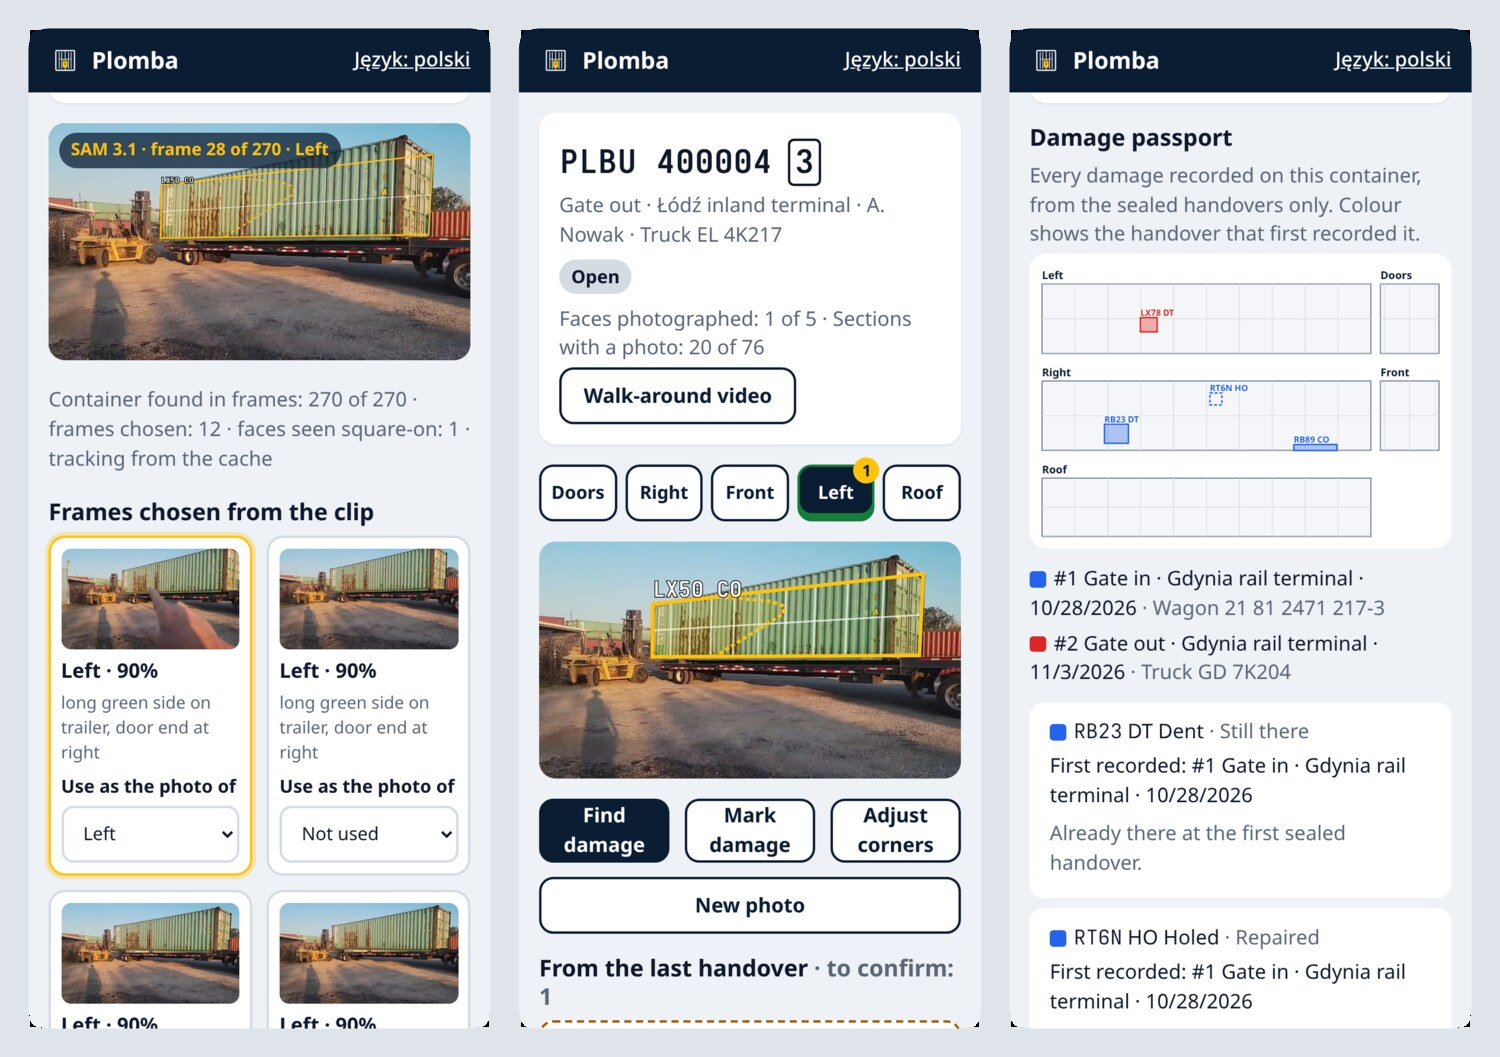
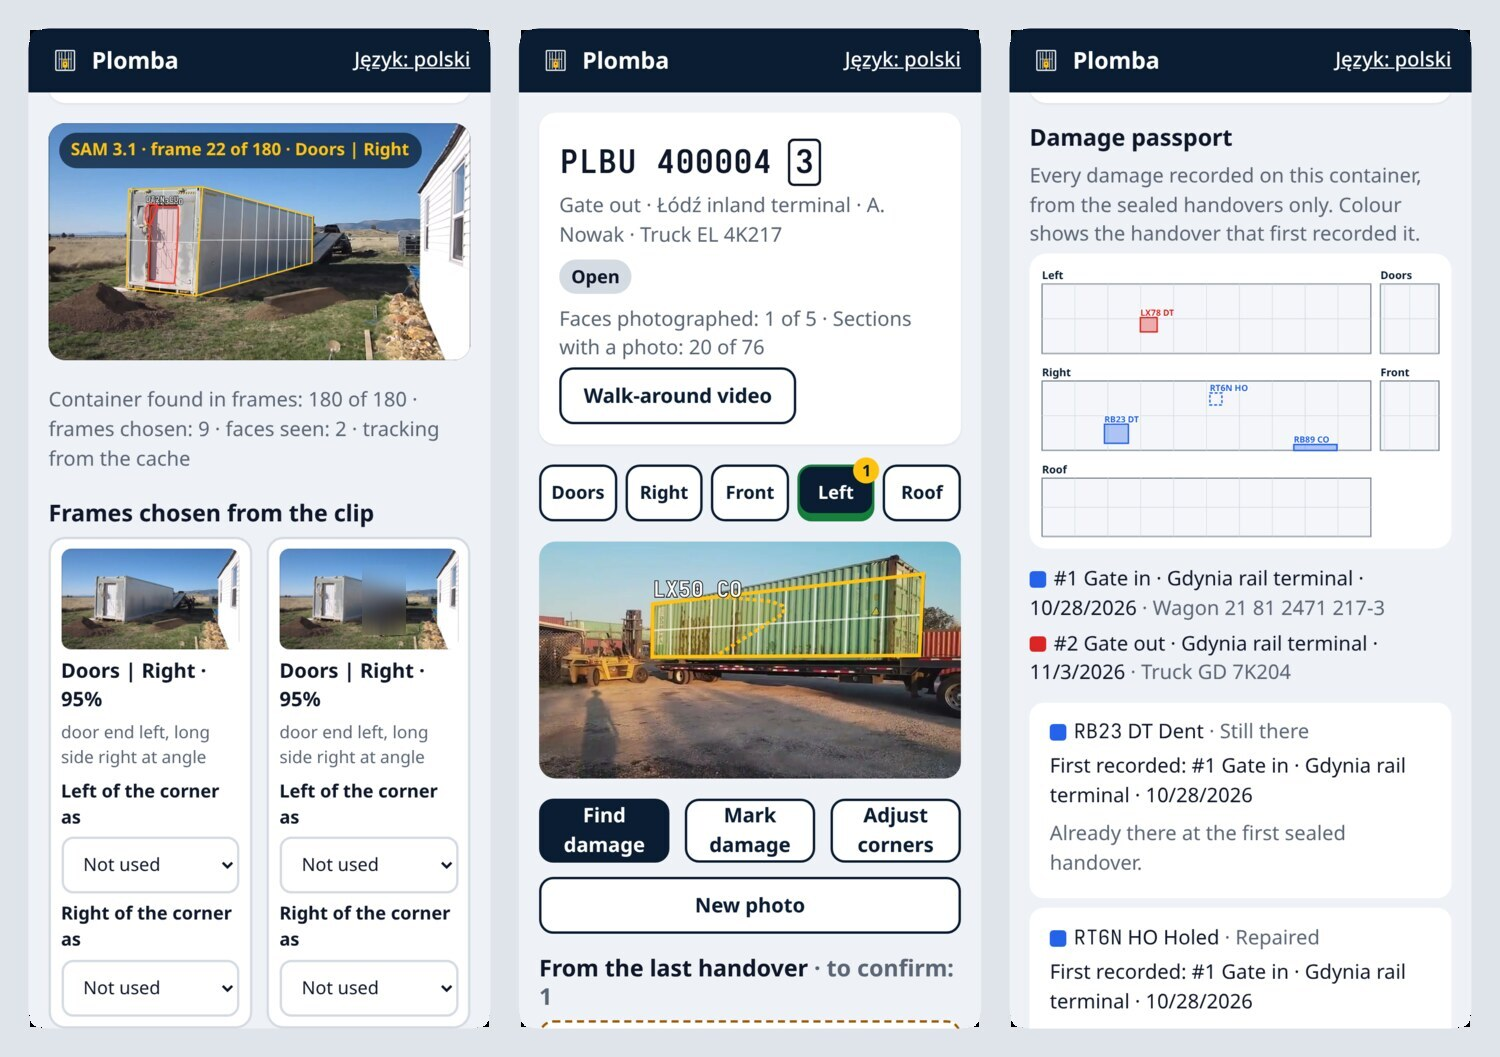
docs: show a corner view in the README image and credit its footage

diff --git a/apps/web/src/i18n/pl.ts b/apps/web/src/i18n/pl.ts
@@ -241,7 +241,7 @@ export const pl: Messages = {
   'walk.step.naming': 'Muse Spark nazywa ścianę na każdej klatce…',
   'walk.step.reading': 'Muse Spark odczytuje drzwi…',
   'walk.summary':
-    'Kontener znaleziony w klatkach: {tracked} z {total} · wybrane klatki: {candidates} · ściany widoczne na wprost: {faces}',
+    'Kontener znaleziony w klatkach: {tracked} z {total} · wybrane klatki: {candidates} · widoczne ściany: {faces}',
   'walk.cached': 'śledzenie z pamięci podręcznej',
   'walk.noFrames':
     'Żadna klatka nie pokazuje całej ściany kontenera. Nagraj ponownie z większej odległości, tak by każda ściana mieściła się w kadrze.',

diff --git a/apps/web/src/i18n/en.ts b/apps/web/src/i18n/en.ts
@@ -239,7 +239,7 @@ export const en = {
   'walk.step.naming': 'Muse Spark is naming the face in each frame…',
   'walk.step.reading': 'Muse Spark is reading the doors…',
   'walk.summary':
-    'Container found in frames: {tracked} of {total} · frames chosen: {candidates} · faces seen square-on: {faces}',
+    'Container found in frames: {tracked} of {total} · frames chosen: {candidates} · faces seen: {faces}',
   'walk.cached': 'tracking from the cache',
   'walk.noFrames':
     'No frame shows a whole face of the container. Record again from further back, so that each face fits in the frame.',

diff --git a/README.md b/README.md
@@ -2,7 +2,7 @@
 
 **A digital seal on a shipping container's condition at every handover.**
 
-![Plomba on a phone: a walk-around video with the container's CEDEX sections tracked by SAM 3.1; the damage recorded at the last handover drawn on the same spot of a new photo; the container's damage passport](docs/images/screens.jpg)
+![Plomba on a phone: a walk-around video where SAM 3.1 tracks the container and both faces of a corner carry their CEDEX sections; the damage recorded at the last handover drawn on the same spot of a new photo; the container's damage passport](docs/images/screens.jpg)
 
 *Plomba* is Polish for the seal on a container's doors, the tag that proves the box wasn't opened. Plomba does the same for the container's condition.
 
@@ -99,7 +99,11 @@ npm run dev:web         # app on http://localhost:5173
 
 ## Credits
 
-The photos in the screenshots above and in the demo installation are frames of "How to buy a shipping container in 10 minutes" by Cowboy Steve Builds (YouTube), licensed CC BY 3.0. The damage passport in the screenshot shows test data.
+The footage in the screenshots above and in the demo installation is openly licensed, CC BY 3.0:
+- "How to buy a shipping container in 10 minutes" by Cowboy Steve Builds (YouTube);
+- "40' reefer shipping container delivery and repositioning" by Life, Take 2 (YouTube).
+
+The damage passport in the screenshot shows test data, and a passer-by in one thumbnail is blurred.
 
 ## Licence
 
